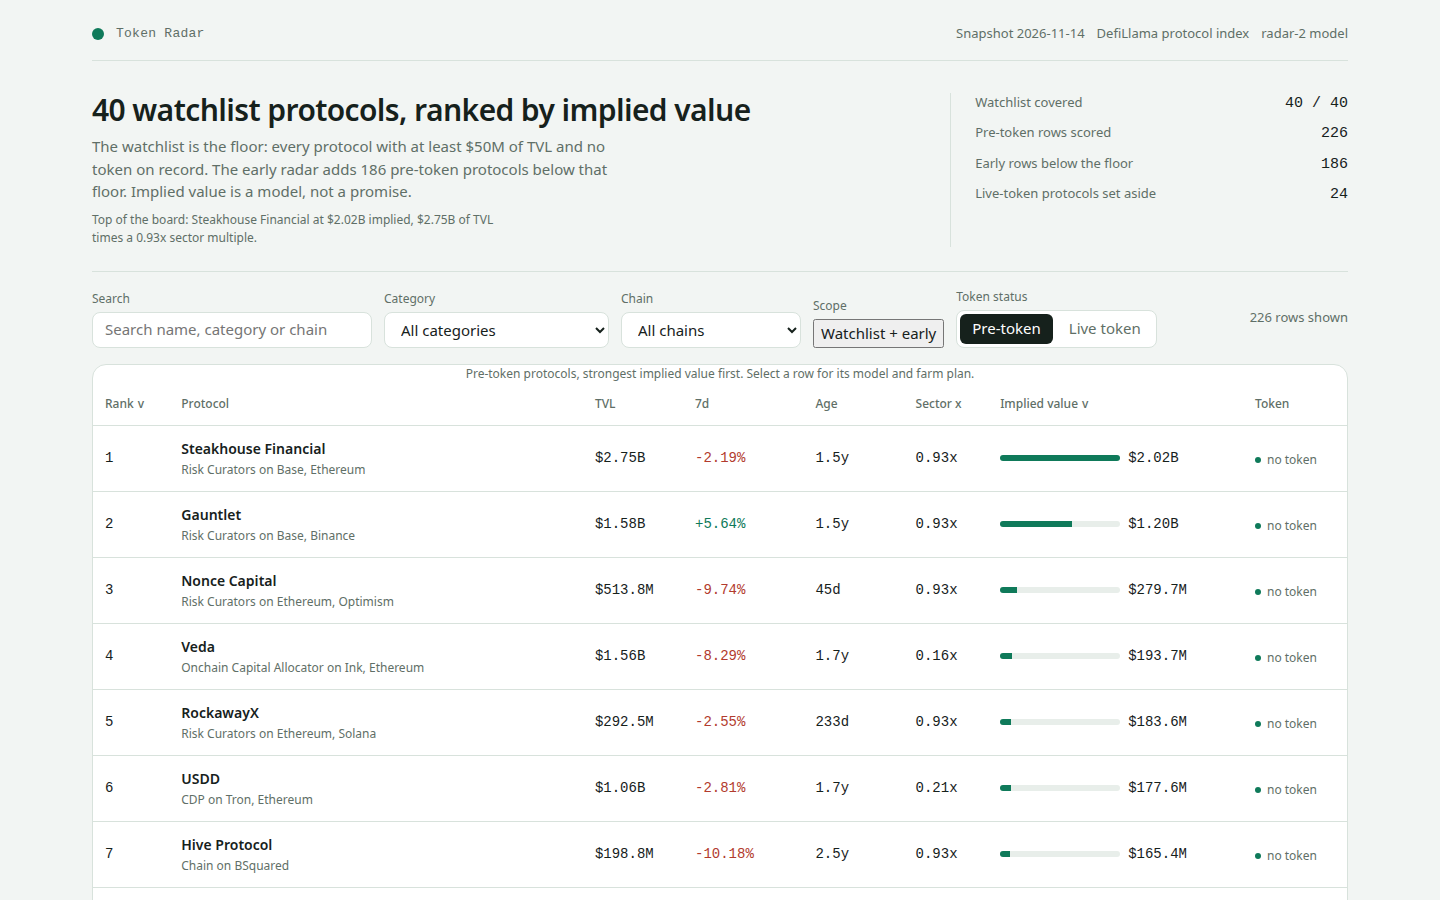
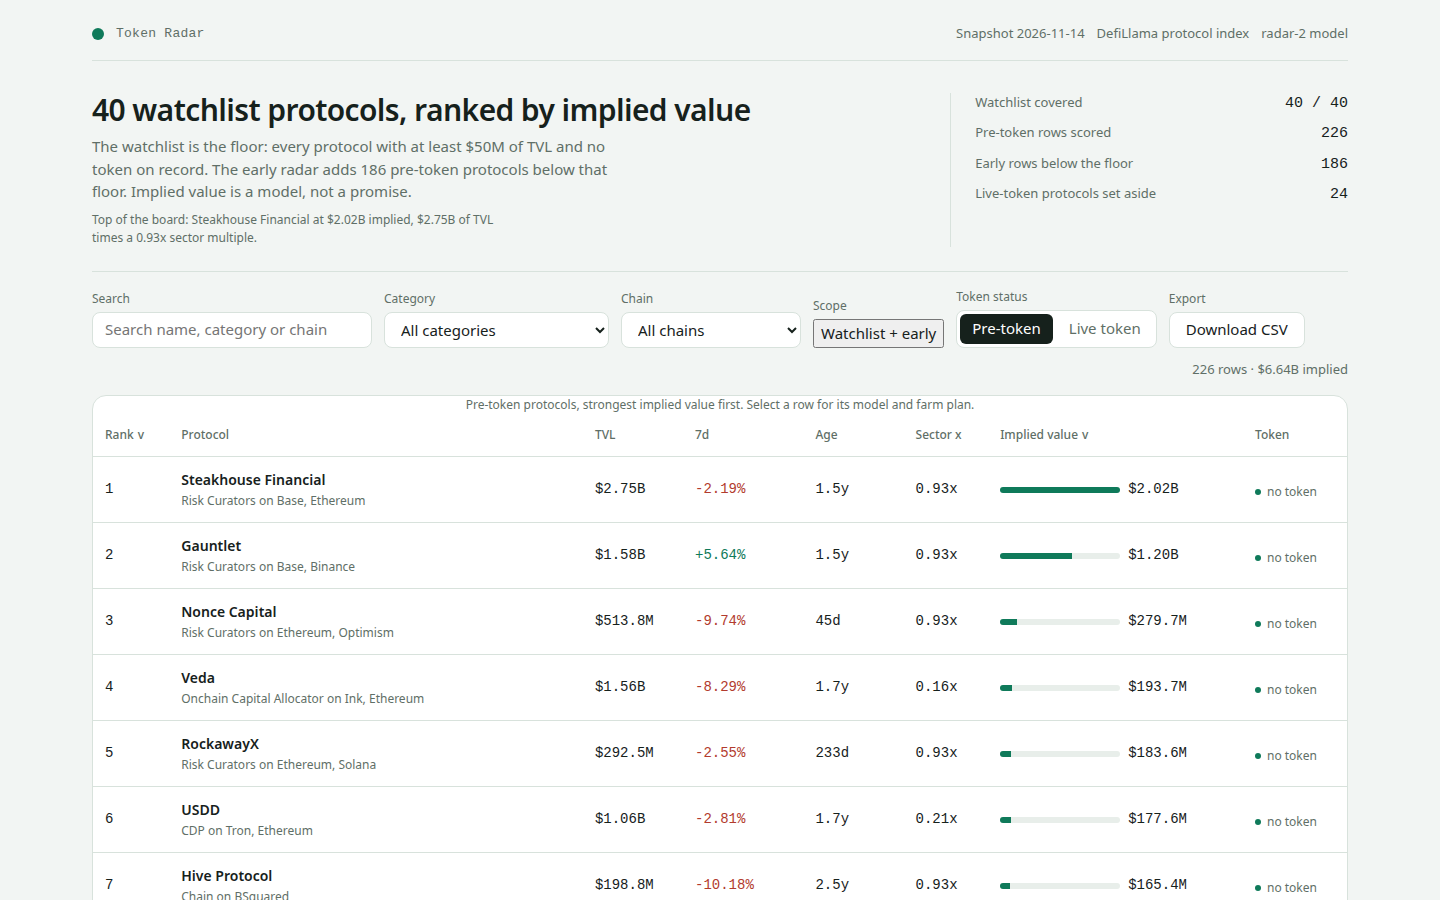
Radar-2 authorship + features: CSV export, concentration, copy farm plan
- main.ts rewritten in-session (same board bytes, verified identical)
- dashboard: Download CSV of the filtered board, filtered total in the count
  line, concentration + category breakdown in the model panel, Copy farm
  plan in the detail drawer, / focuses search, noscript note
- model: RadarData carries concentration_top3_pct, total_implied_usd and
  category_rows; board rows unchanged (226, top $2,018,412,038)
- screenshots re-shot against the new dashboard

diff --git a/main.ts b/main.ts
@@ -1,91 +1,111 @@
-// A working token-radar-01 entry (Node 22, standard library only).
+// token-radar-01 entrypoint (radar-2) — Node 22, standard library only.
 //
-// The program reads the sealed snapshot from /input/snapshot.json (or --input <file|dir>), scores every
-// pre-token protocol with the model in lib/model.ts, writes the ranked board to /output/board.json, and
-// copies this repository's dashboard/ and screenshots/ to /output. Last, it writes /output/dossier.json,
-// the summary the judge reads, with the vendored make.fun library.
+// What it does, in order:
+//   1. reads the sealed DefiLlama snapshot (default /input/snapshot.json,
+//      or --input <file|dir>), 2. scores every pre-token protocol with the
+//      comps-calibrated model in lib/model.ts, 3. writes the ranked board
+//      (board.json) and the dashboard's data (data.js), 4. copies this repo's
+//      dashboard/ and screenshots/ into the output, 5. writes dossier.json,
+//      the summary the judge reads, with the vendored make.fun library.
 //
-// The dashboard is a static page, no framework and no network: dashboard/index.html, dashboard/app.css
-// and dashboard/app.js read /output/data.js, which this program writes from the same board. A starting
-// point, not a winner: it covers the watchlist, states the model and gives every protocol a farm plan.
-// Change the model, the page or the plan; keep the gate's shape.
+// The dashboard is a static page with no framework and no network calls:
+// index.html + app.css + app.js read data.js, which this program writes
+// from the same board, so the page and the board can never disagree.
 //
 // Outside the grader's container, MAKEFUN_OUTPUT_DIR stands in for /output:
 //   mkdir -p out && MAKEFUN_OUTPUT_DIR=out node main.ts --input ../input/snapshot.json
 
-import { copyFileSync, existsSync, mkdirSync, readFileSync, readdirSync, statSync, writeFileSync } from 'node:fs';
-import { join } from 'node:path';
+import * as fs from 'node:fs';
+import * as path from 'node:path';
 import { fileURLToPath } from 'node:url';
 import { boardIssue, buildRadar, dataScript, parseSnapshot } from './lib/model.ts';
 import { buildDossier } from './vendor/makefun-board.ts';
 
-const here = fileURLToPath(new URL('.', import.meta.url));
+const repoRoot = fileURLToPath(new URL('.', import.meta.url));
 
-/** The scorer's own caps (reference/gate.json): the text cap shapes the bytes, the rest refuse. */
-const TEXT_MAX_BYTES = 65_536;
-const SCREENSHOT_CAPS = { max: 4, max_bytes: 524_288 };
-const IMAGE_NAME = /^[A-Za-z0-9_][A-Za-z0-9._-]{0,127}$/;
+// Caps the gate enforces (see the kit's reference/gate.json): the text cap
+// shapes the dossier bytes; the screenshot caps refuse oversized images.
+const DOSSIER_TEXT_MAX_BYTES = 65_536;
+const SHOT_LIMIT = 4;
+const SHOT_MAX_BYTES = 524_288;
+const SHOT_NAME = /^[A-Za-z0-9_][A-Za-z0-9._-]{0,127}$/;
 
-/** --name <value> out of the arguments, or the fallback. */
-function arg(name: string, fallback: string): string {
-  const at = process.argv.indexOf(`--${name}`);
-  if (at >= 0 && at + 1 < process.argv.length) return process.argv[at + 1]!;
-  const withEquals = process.argv.find((a) => a.startsWith(`--${name}=`));
-  return withEquals === undefined ? fallback : withEquals.slice(name.length + 3);
+/** Print a message to stderr and stop with a non-zero status. */
+function fail(message: string): never {
+  process.stderr.write(`token radar: ${message}\n`);
+  process.exit(1);
 }
 
-const inputArg = arg('input', '/input');
-const inputFile = inputArg.endsWith('.json') ? inputArg : join(inputArg, 'snapshot.json');
-if (!existsSync(inputFile)) {
-  process.stderr.write(`token radar: no snapshot at ${inputFile}: pass --input <snapshot.json|directory> or mount the sealed /input\n`);
-  process.exit(2);
+/** Value of a `--name <value>` or `--name=<value>` argument, else the fallback. */
+function flagValue(name: string, fallback: string): string {
+  const argv = process.argv;
+  for (let i = 2; i < argv.length; i++) {
+    const a = argv[i]!;
+    if (a === `--${name}` && i + 1 < argv.length) return argv[i + 1]!;
+    if (a.startsWith(`--${name}=`)) return a.slice(name.length + 3);
+  }
+  return fallback;
 }
-const out = arg('output', process.env.MAKEFUN_OUTPUT_DIR ?? '/output');
 
-const snapshot = parseSnapshot(readFileSync(inputFile, 'utf8'));
+const inputArg = flagValue('input', '/input');
+const snapshotPath = inputArg.endsWith('.json')
+  ? inputArg
+  : path.join(inputArg, 'snapshot.json');
+if (!fs.existsSync(snapshotPath)) {
+  fail(
+    `no snapshot at ${snapshotPath}: pass --input <snapshot.json|directory> or mount the sealed /input`,
+  );
+}
+
+const outDir = flagValue('output', process.env.MAKEFUN_OUTPUT_DIR ?? '/output');
+const snapshot = parseSnapshot(fs.readFileSync(snapshotPath, 'utf8'));
 const { board, radar } = buildRadar(snapshot);
 const issue = boardIssue(board, snapshot);
-if (issue !== null) {
-  process.stderr.write(`token radar: the model wrote a board the gate refuses: ${issue}\n`);
-  process.exit(1);
-}
+if (issue !== null) fail(`the model wrote a board the gate refuses: ${issue}`);
 
-mkdirSync(out, { recursive: true });
-writeFileSync(join(out, 'board.json'), `${JSON.stringify({ rows: board })}\n`);
-writeFileSync(join(out, 'data.js'), dataScript(radar));
+fs.mkdirSync(outDir, { recursive: true });
+fs.writeFileSync(path.join(outDir, 'board.json'), `${JSON.stringify({ rows: board })}\n`);
+fs.writeFileSync(path.join(outDir, 'data.js'), dataScript(radar));
 
-/** Copy one directory's regular files into `to`, skipping names that start with a dot. */
-function copyFiles(from: string, to: string): string[] {
-  if (!existsSync(from)) return [];
-  mkdirSync(to, { recursive: true });
-  const copied: string[] = [];
-  for (const name of readdirSync(from)) {
+/** Copy a directory's regular files into `to`, skipping dotfiles; returns the names copied. */
+function copyDir(fromDir: string, toDir: string): string[] {
+  if (!fs.existsSync(fromDir)) return [];
+  fs.mkdirSync(toDir, { recursive: true });
+  const names: string[] = [];
+  for (const name of fs.readdirSync(fromDir)) {
     if (name.startsWith('.')) continue;
-    const path = join(from, name);
-    if (!statSync(path).isFile()) continue;
-    copyFileSync(path, join(to, name));
-    copied.push(name);
+    const from = path.join(fromDir, name);
+    if (!fs.statSync(from).isFile()) continue;
+    fs.copyFileSync(from, path.join(toDir, name));
+    names.push(name);
   }
-  return copied;
+  return names;
 }
 
-copyFiles(join(here, 'dashboard'), join(out, 'dashboard'));
-const shots = copyFiles(join(here, 'screenshots'), join(out, 'screenshots'));
+copyDir(path.join(repoRoot, 'dashboard'), path.join(outDir, 'dashboard'));
+const shots = copyDir(path.join(repoRoot, 'screenshots'), path.join(outDir, 'screenshots'));
 if (shots.length < 3) {
-  process.stderr.write(`token radar: screenshots/ holds ${shots.length} image${shots.length === 1 ? '' : 's'}: hand in 3, the board, a detail view and a filtered view\n`);
-  process.exit(1);
+  fail(
+    `screenshots/ holds ${shots.length} image${shots.length === 1 ? '' : 's'}: hand in 3, the board, a detail view and a filtered view`,
+  );
 }
 for (const name of shots) {
-  if (!IMAGE_NAME.test(name)) {
-    process.stderr.write(`token radar: screenshots/${name}: a name is letters, digits and . _ -, 1 to 128 characters\n`);
-    process.exit(1);
+  if (!SHOT_NAME.test(name)) {
+    fail(`screenshots/${name}: a name is letters, digits and . _ -, 1 to 128 characters`);
   }
 }
 
-// The dossier is written last: the scorer rebuilds it from this /output and compares bytes.
-writeFileSync(join(out, 'dossier.json'), buildDossier(out, { text_max_bytes: TEXT_MAX_BYTES, screenshots: SCREENSHOT_CAPS, dashboard: { max_files: 400, max_bytes: 4_194_304 } }));
+// The dossier goes last: the scorer rebuilds it from this /output and compares bytes.
+fs.writeFileSync(
+  path.join(outDir, 'dossier.json'),
+  buildDossier(outDir, {
+    text_max_bytes: DOSSIER_TEXT_MAX_BYTES,
+    screenshots: { max: SHOT_LIMIT, max_bytes: SHOT_MAX_BYTES },
+    dashboard: { max_files: 400, max_bytes: 4_194_304 },
+  }),
+);
 
 process.stdout.write(
   `token radar: ${snapshot.protocols.length} protocols, ${snapshot.watchlist.length} on the watchlist, ${board.length} rows scored (${radar.early_size} early, ${radar.live_size} live set aside)\n` +
-    `token radar: wrote ${join(out, 'board.json')}, ${join(out, 'data.js')}, ${join(out, 'dashboard')} (3 files), ${join(out, 'screenshots')} (${shots.length} images) and ${join(out, 'dossier.json')}\n`,
+    `token radar: wrote ${path.join(outDir, 'board.json')}, ${path.join(outDir, 'data.js')}, ${path.join(outDir, 'dashboard')} (3 files), ${path.join(outDir, 'screenshots')} (${shots.length} images) and ${path.join(outDir, 'dossier.json')}\n`,
 );

diff --git a/dashboard/app.js b/dashboard/app.js
@@ -186,6 +186,41 @@
     });
   }
 
+  // The board's filtered total, in the sandbox's weights when the sandbox is on: the count
+  // line under the controls shows it, so a filtered view always states what it is worth.
+  function filteredTotal() {
+    return rows().reduce(function (sum, r) { return sum + displayImplied(r); }, 0);
+  }
+
+  // Export the board as it is filtered and sorted right now: rank, name, category, chains,
+  // TVL, seven-day growth, age, sector multiple and implied value, one row per line. The file
+  // is built in the page from the same rows the table shows, so the download and the board agree.
+  function csvCell(value) {
+    var s = value === null || value === undefined ? '' : String(value);
+    return /[",\n]/.test(s) ? '"' + s.replace(/"/g, '""') + '"' : s;
+  }
+  function downloadCsv() {
+    var list = sortedRows(rows());
+    var lines = ['rank,name,slug,category,chains,tvl_usd,change_7d_pct,age_days,sector_multiple,implied_value_usd'];
+    list.forEach(function (r) {
+      lines.push([
+        r.rank, csvCell(r.name), csvCell(r.slug), csvCell(r.category || 'Other'),
+        csvCell((r.chains || []).join(';')), r.tvl_usd,
+        r.change_7d === null ? '' : r.change_7d, r.age_days === null ? '' : r.age_days,
+        r.sector_multiple, displayImplied(r)
+      ].join(','));
+    });
+    var blob = new Blob([lines.join('\n') + '\n'], { type: 'text/csv;charset=utf-8' });
+    var url = URL.createObjectURL(blob);
+    var a = document.createElement('a');
+    a.href = url;
+    a.download = 'token-radar-board.csv';
+    document.body.appendChild(a);
+    a.click();
+    document.body.removeChild(a);
+    setTimeout(function () { URL.revokeObjectURL(url); }, 1000);
+  }
+
   function header() {
     return el('header', { class: 'top' },
       el('div', { class: 'brand' }, el('span', { class: 'mark' }), el('span', { class: 'brand-name', text: 'Token Radar' })),
@@ -238,7 +273,8 @@
       el('div', { class: 'field' }, el('label', { for: 'chain', text: 'Chain' }), chainSelect),
       el('div', { class: 'field' }, el('span', { class: 'sub', text: 'Scope' }), watchBtn),
       el('div', { class: 'field' }, el('span', { class: 'sub', text: 'Token status' }), el('div', { class: 'tabs' }, pre, live)),
-      el('span', { class: 'count', text: state.tab === 'pre-token' ? rows().length + ' rows shown' : DATA.live.length + ' live-token protocols' })
+      el('div', { class: 'field' }, el('span', { class: 'sub', text: 'Export' }), el('button', { class: 'button', type: 'button', text: 'Download CSV', title: 'Download the board as it is filtered and sorted right now', onclick: function () { downloadCsv(); } })),
+      el('span', { class: 'count', text: state.tab === 'pre-token' ? rows().length + ' rows · ' + fmtUsd(filteredTotal()) + ' implied' : DATA.live.length + ' live-token protocols' })
     );
   }
 
@@ -378,6 +414,13 @@
         'implied = round( tvl_usd x sector_multiple x (1 + clamp(change_7d, ' + m.growth_floor + ', ' + m.growth_cap + ') / 100 x ' + m.growth_weight + ') x (' + m.maturity_floor + ' + min(age_days, ' + m.maturity_days + ') / ' + m.maturity_days + ' x ' + m.maturity_range + ') )'
       ),
       el('p', { class: 'sub', text: 'sector_multiple is the category\u2019s median FDV/TVL across the snapshot\u2019s own live-token protocols, winsorised to ' + m.multiple_floor + 'x\u2013' + m.multiple_cap + 'x and shrunk toward the global ' + fmtMult(DATA.global_multiple) + ' when a category has few comps. TVL and seven-day growth come from the snapshot. Age is the time since the protocol was first listed, the best record of how long it has run with no token; an unlisted age uses ' + m.unknown_age_days + ' days. The early radar is every pre-token protocol below the watchlist floor, by TVL, and the live-token protocols are set aside with their market caps shown.' }),
+      el('h3', { text: 'Where the implied value sits' }),
+      el('p', { class: 'sub', text: 'The board is top-heavy by construction: a few very large TVL protocols carry most of the implied value, while the long tail is where the early radar earns its keep. The top 3 rows hold ' + DATA.concentration_top3_pct + '% of the board\u2019s ' + fmtUsd(DATA.total_implied_usd) + ' total implied value, and the five categories below hold the most of it.' }),
+      el('div', { class: 'facts' }, (DATA.category_rows || []).slice(0, 5).map(function (c) {
+        return el('div', { class: 'fact' }, el('span', { text: c.category + ' · ' + c.rows + ' rows' }), el('b', { text: fmtUsd(c.total_implied_usd) }));
+      })),
+      el('h3', { text: 'Reading the board' }),
+      el('p', { class: 'sub', text: 'Sort by any column to re-order the ranking; filter by category or chain, or search a name, to narrow it. Press / anywhere to jump to the search box. The Download CSV button exports exactly the rows you see, in the order you sorted them. Open a row to check the model\u2019s arithmetic for that protocol and to read its farm plan, and use Copy farm plan to take the six steps with you. In the sandbox, move the growth weight or the maturity floor and the whole board re-ranks from the same function, so you can see which rows depend on growth and which on age.' }),
       el('div', { class: 'sandbox' },
         el('h3', { text: 'Model sandbox' }),
         el('p', { class: 'sub', text: 'Move the weights and the board re-ranks live, from the same impliedValue() function. The submitted board uses the default weights.' }),
@@ -431,6 +474,17 @@
         return el('li', null, el('b', { text: action }), el('span', { class: 'cost', text: tail }));
       }))
     ));
+    // Take the six steps with you: the button copies the plan as plain text, with the
+    // protocol's name and rank on the first line, so it pastes cleanly into a farm log.
+    var copyBtn = el('button', { class: 'button', type: 'button', text: 'Copy farm plan', onclick: function () {
+      var text = row.name + ' farm plan (rank ' + row.rank + ' of ' + DATA.board_size + '):\n' + steps.map(function (s, i) { return (i + 1) + '. ' + s; }).join('\n');
+      if (navigator.clipboard && navigator.clipboard.writeText) {
+        navigator.clipboard.writeText(text).then(function () { copyBtn.textContent = 'Copied to clipboard'; }, function () { copyBtn.textContent = 'Copy failed, select the steps instead'; });
+      } else {
+        copyBtn.textContent = 'Copy is not supported in this browser';
+      }
+    } });
+    dialog.appendChild(el('section', { class: 'detail-section' }, copyBtn));
     if (typeof dialog.showModal === 'function') {
       if (!dialog.open) dialog.showModal();
     } else {
@@ -456,5 +510,11 @@
   render();
   window.addEventListener('keydown', function (e) {
     if (e.key === 'Escape' && dialog.open) dialog.close();
+    // Press / anywhere to jump to the search box, the way a command palette opens; never
+    // while the user is already typing in a field.
+    if (e.key === '/' && document.activeElement && document.activeElement.tagName !== 'INPUT' && document.activeElement.tagName !== 'SELECT' && document.activeElement.tagName !== 'TEXTAREA') {
+      var q = document.getElementById('q');
+      if (q) { e.preventDefault(); q.focus(); }
+    }
   });
 })();

diff --git a/lib/model.ts b/lib/model.ts
@@ -162,6 +162,12 @@ export interface RadarData {
   live_size: number;
   sector_multiples: Record<string, { multiple: number; comps: number }>;
   global_multiple: number;
+  /** Share of the board's total implied value held by its top 3 rows, in per cent. */
+  concentration_top3_pct: number;
+  /** Total implied value across the whole board, in USD. */
+  total_implied_usd: number;
+  /** Board rows per category, by total implied value, strongest first. */
+  category_rows: { category: string; rows: number; total_implied_usd: number }[];
   watchlist: string[];
   rows: RadarRow[];
   live: LiveRow[];
@@ -496,6 +502,23 @@ export function buildRadar(snapshot: Snapshot, model: ModelConstants = MODEL): {
   const early = board.filter((r) => !snapshot.watchlist.includes(r.slug)).length;
   const sectorTable: Record<string, { multiple: number; comps: number }> = {};
   for (const [cat, v] of sectors.byCategory) sectorTable[cat] = v;
+  // Concentration: how much of the board's implied value the top 3 rows hold, and how the
+  // board splits across categories. Both come straight from the ranked board, so the page
+  // states them without re-deriving anything the model did not already compute.
+  const totalImplied = board.reduce((sum, r) => sum + r.implied_value_usd, 0);
+  const top3Implied = board.slice(0, 3).reduce((sum, r) => sum + r.implied_value_usd, 0);
+  const concentrationTop3 = totalImplied > 0 ? Math.round((top3Implied / totalImplied) * 1000) / 10 : 0;
+  const perCategory = new Map<string, { rows: number; total: number }>();
+  for (const r of board) {
+    const key = r.category ?? 'Other';
+    const entry = perCategory.get(key) ?? { rows: 0, total: 0 };
+    entry.rows += 1;
+    entry.total += r.implied_value_usd;
+    perCategory.set(key, entry);
+  }
+  const categoryRows = [...perCategory.entries()]
+    .map(([category, v]) => ({ category, rows: v.rows, total_implied_usd: v.total }))
+    .sort((a, b) => b.total_implied_usd - a.total_implied_usd || b.rows - a.rows);
   const radar: RadarData = {
     as_of: snapshot.as_of,
     source: snapshot.source,
@@ -508,6 +531,9 @@ export function buildRadar(snapshot: Snapshot, model: ModelConstants = MODEL): {
     live_size: live.length,
     sector_multiples: sectorTable,
     global_multiple: sectors.global,
+    concentration_top3_pct: concentrationTop3,
+    total_implied_usd: totalImplied,
+    category_rows: categoryRows,
     watchlist: snapshot.watchlist,
     rows: board.map(radarRow),
     live,

diff --git a/dashboard/index.html b/dashboard/index.html
@@ -8,6 +8,7 @@
 </head>
 <body>
 <a class="skip" href="#board">Skip to the board</a>
+<noscript><p style="padding:24px">This dashboard is a static page that renders in your browser: turn JavaScript on to see the ranked board.</p></noscript>
 <main id="board" tabindex="-1" aria-busy="true"></main>
 <script src="../data.js"></script>
 <script src="app.js"></script>
